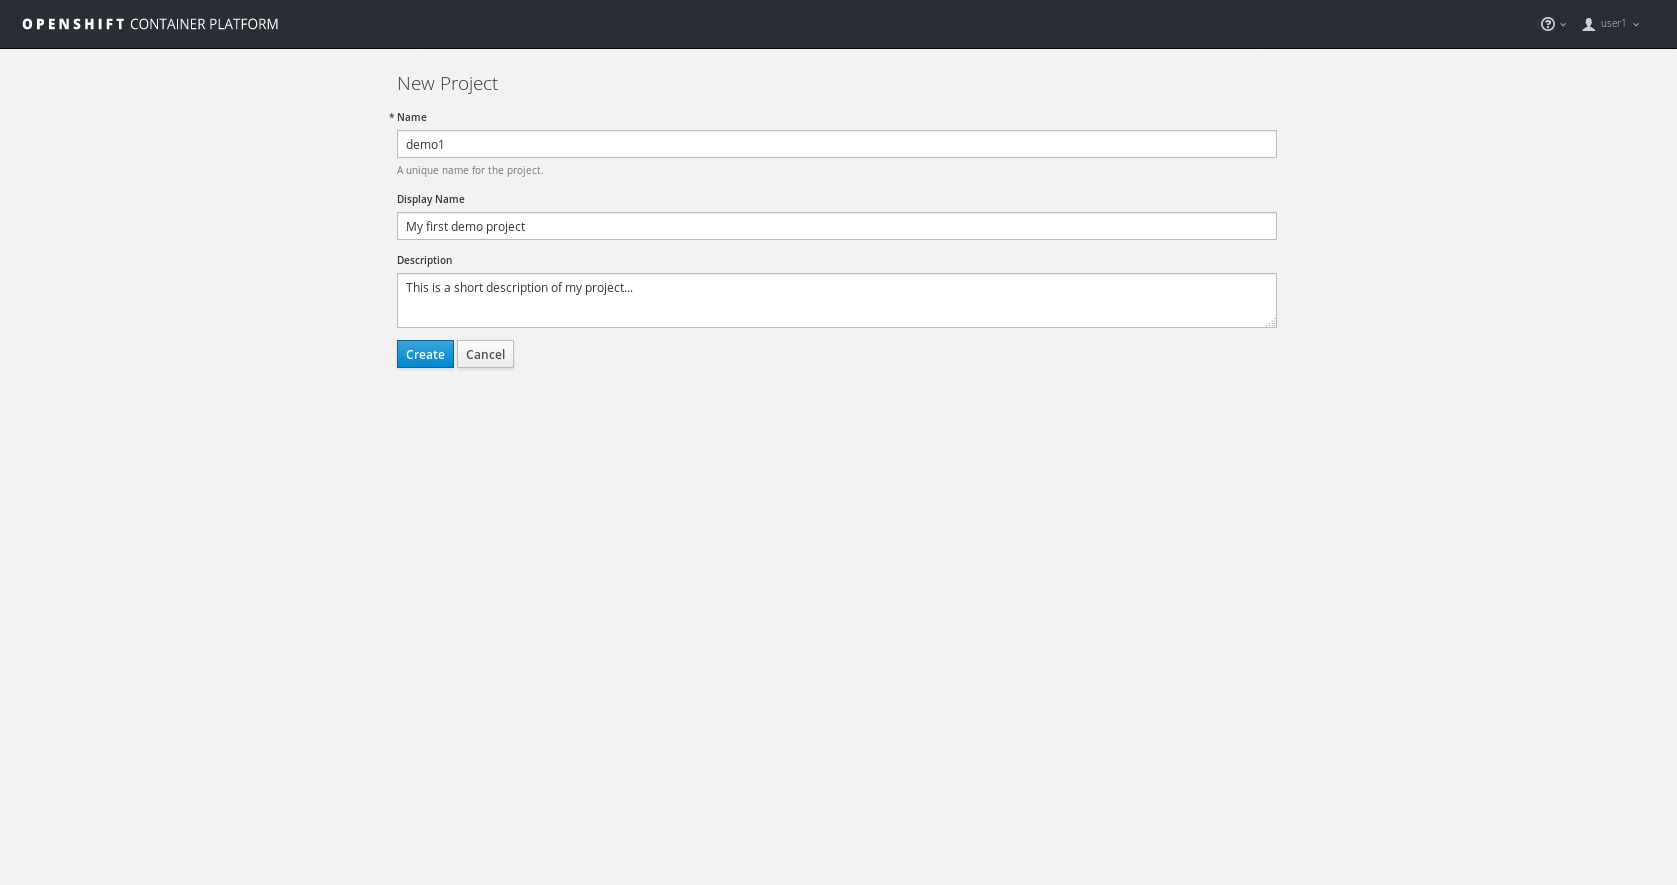
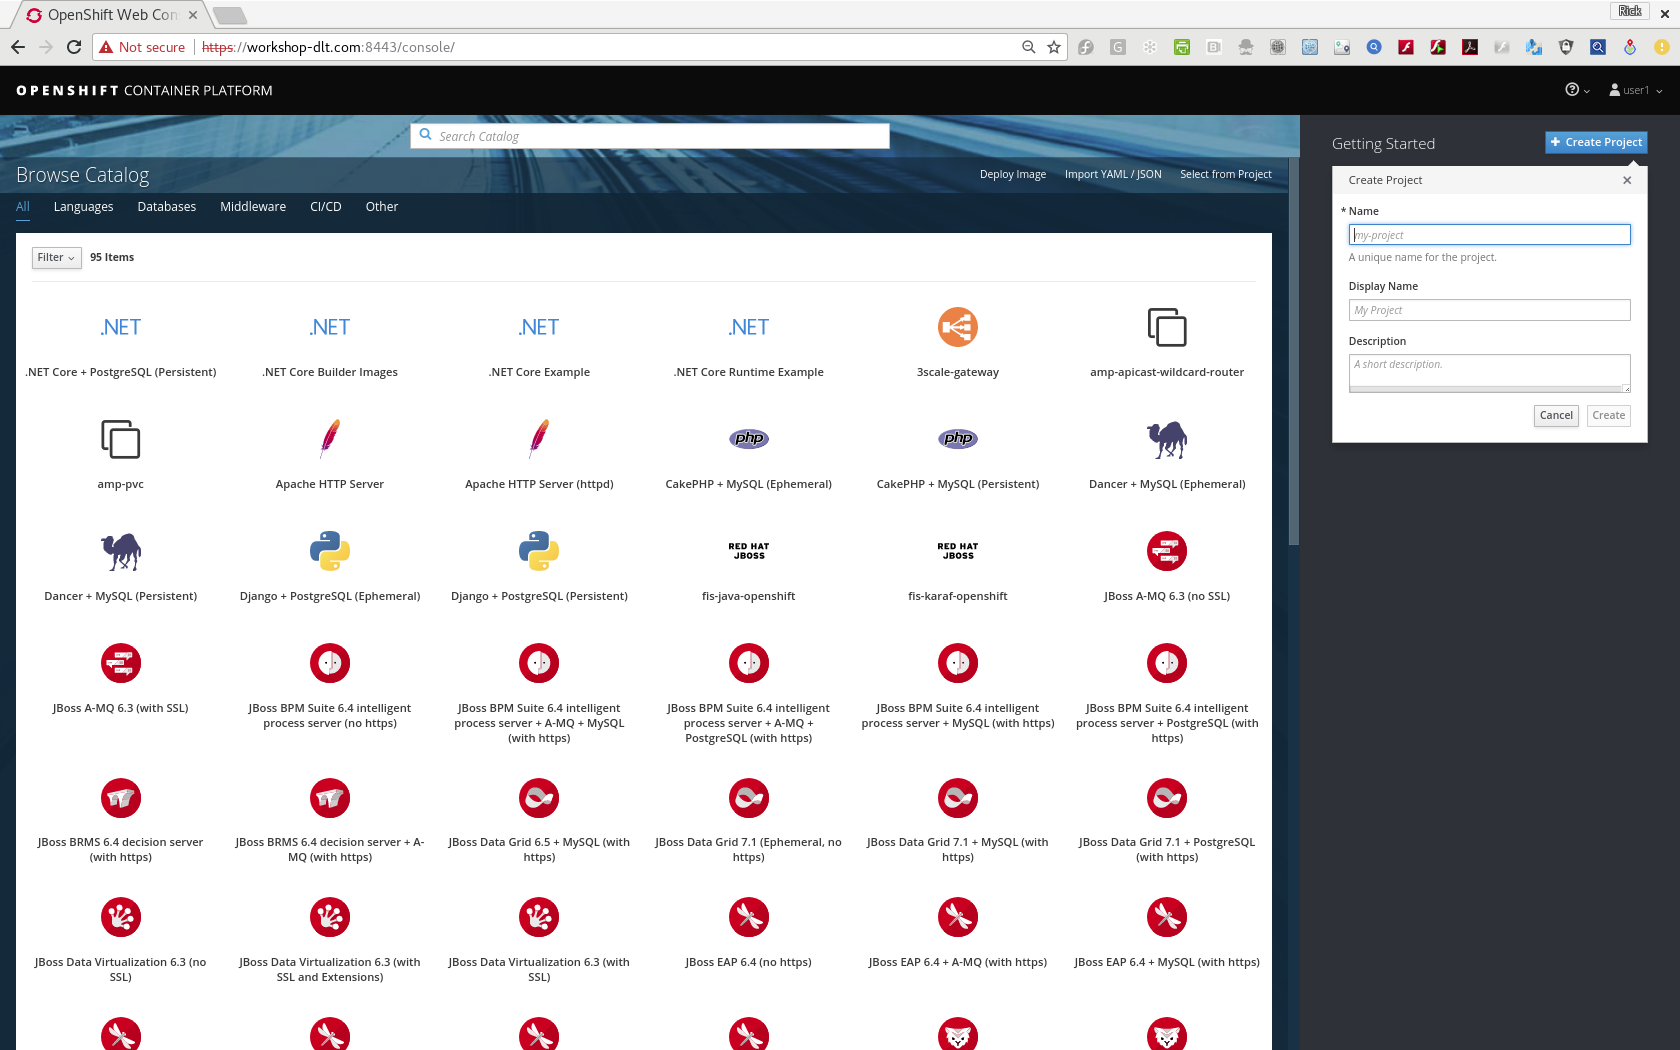
New ocp v3.7 welcome lab

diff --git a/content/workshops/openshift_v3_7_101/lab1-welcome.md b/content/workshops/openshift_v3_7_101/lab1-welcome.md
@@ -34,26 +34,33 @@ OpenShift provides a web console that allows you to perform various tasks via a 
 <img src="../images/ocp-login.png" width="600"><br/>
 *OCP Login Webpage*
 
-Once logged in you should see your available projects - or a button to create a project if none exist already.
+Once logged in you should see all available technologies for you to choose as well as a button to create a project if none exist already.
 
 <img src="../images/ocp-no-projects.png" width="600"><br/>
-*OCP No Projects Webpage*
+*OCP Web Console Landing Webpage*
 
 ## So this is what an empty project looks like
 First let's create a new project to do our workshop work in.  We will use the student number you were given to ensure you don't clash with classmates, so in the steps below replace '{YOUR#}' with your student number.
 
-> Click on the "New Project" button and give it a name of demo-{YOUR#}
+> Click on the "+ Create Project" button and give it a name of demo-{YOUR#}
 
 > Populate "Display Name" with "demo-{YOUR#}" and populate "Description" boxes with whatever you like.  And click "Create"
 
 <img src="../images/ocp-new-project.png" width="600"><br/>
-*OCP New Project Webpage*
+*OCP Create Project Webpage*
 
 This is going to take you to the next logical step of adding something to the project, but we don't want to do that just yet.
 
-> Click the "demo-{YOUR#}" link on the top left to goto your project
+<img src="../images/ocp-first-project-created.png" width="600"><br/>
+*OCP First Project Displayed Webpage*
+
+> Click the decription project link in the "1 of 1 Projects" section that you just created to go to your project
 
 Don't worry, it's supposed to look empty right now because you currently don't have anything in your project (we'll fix that in the next lab).
+
+<img src="../images/ocp-empty-project.png" width="600"><br/>
+*OCP Empty Project Webpage*
+
 
 ## Let's try the command line (CLI)
 > <i class="fa fa-terminal"></i> Open a terminal and login using the same URI with following command:
